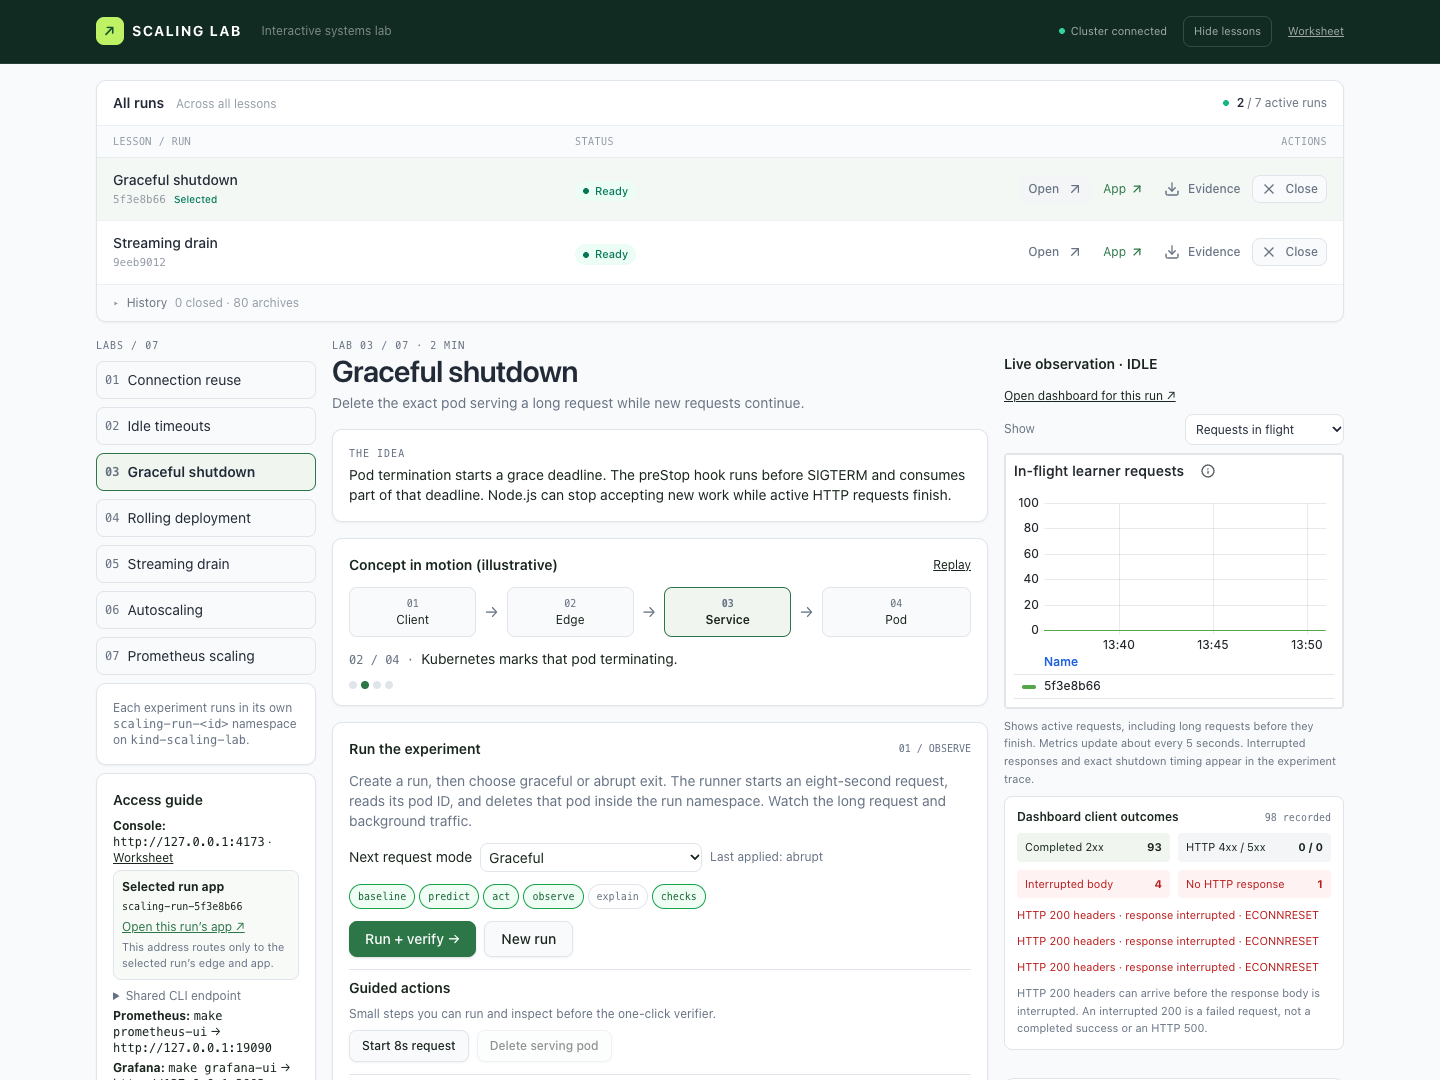
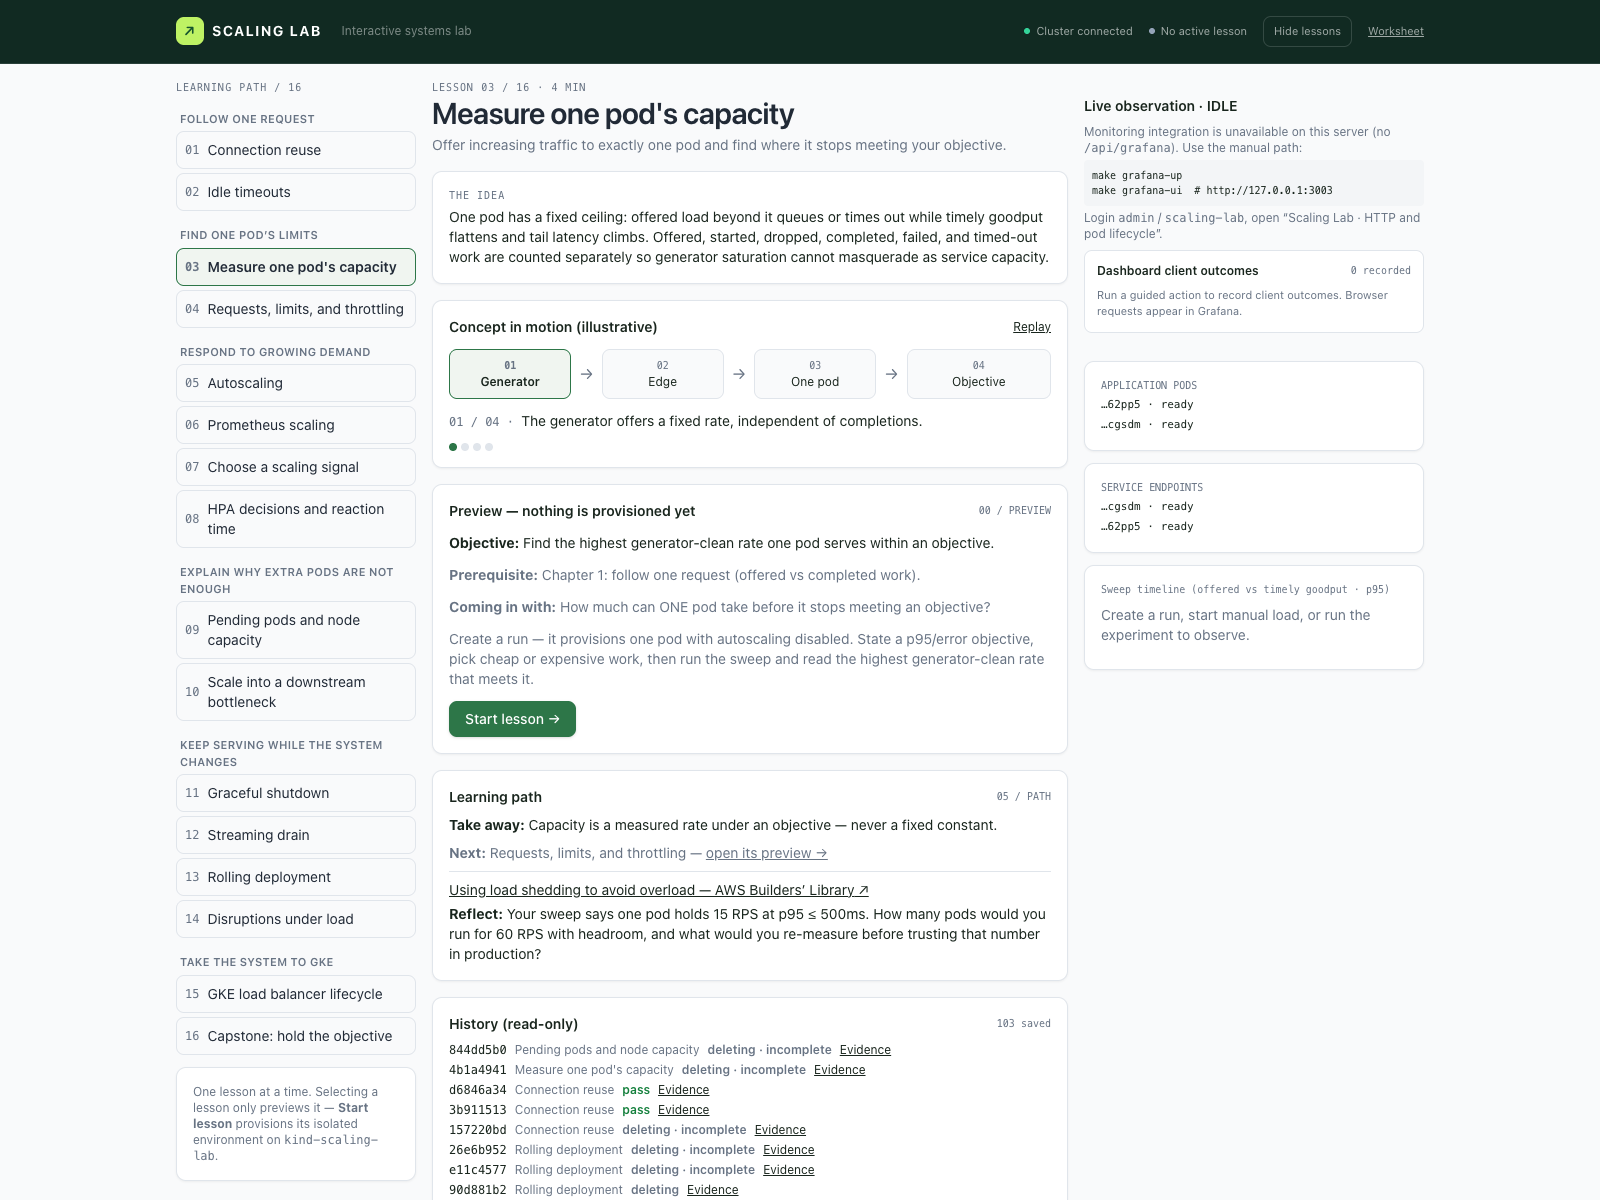
Refresh README screenshot for the single-lesson console

diff --git a/README.md b/README.md
@@ -2,7 +2,9 @@
 
 A guided local lab that grows from one request to cloud backends: connection reuse, single-pod capacity, resource sizing, CPU and Prometheus autoscaling, scaling signals, Pending pods, downstream bottlenecks, graceful shutdown, streaming, rollouts, disruptions, the GKE load-balancer lifecycle, and a capstone. The web console (React + Tailwind) runs one lesson at a time — preview, explicit start, practice inside an isolated environment, end with saved evidence, and read-only history — paired with a live pod/endpoint view, an embedded Grafana pane, request timeline, conceptual question, and evidence-backed verification result.
 
-![Scaling Lab console](docs/dashboard.png)
+![Scaling Lab console with the 16-lesson learning path and Start lesson preview](docs/dashboard.png)
+
+Lesson preview: browse the learning path, then select **Start lesson** to prepare its environment.
 
 ## Requirements
 
